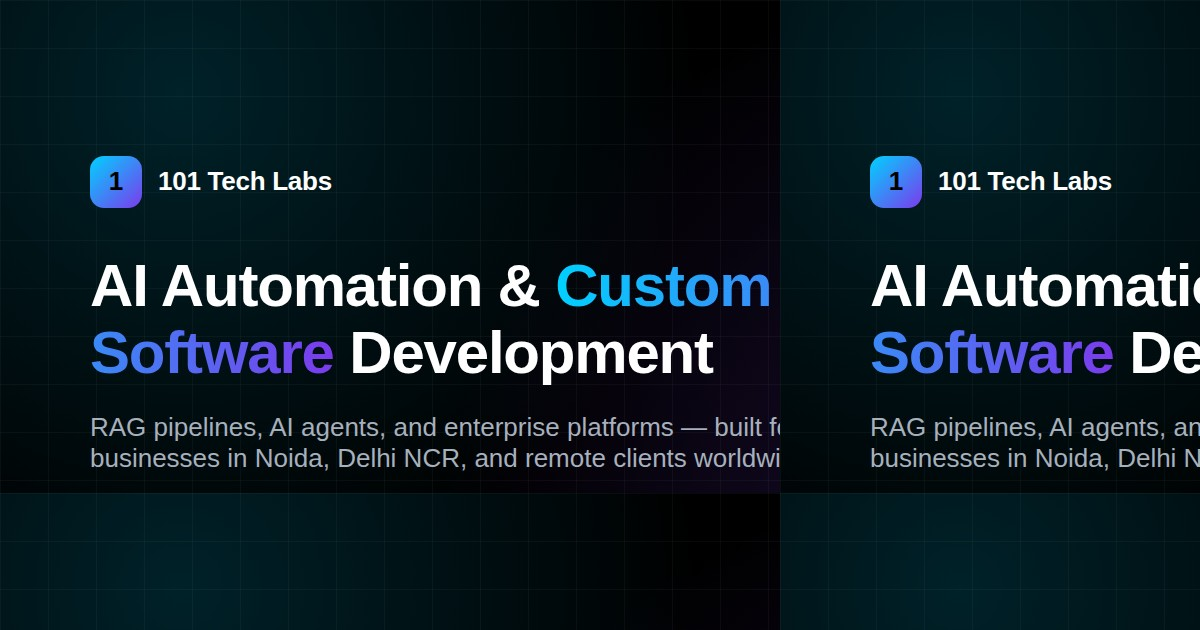
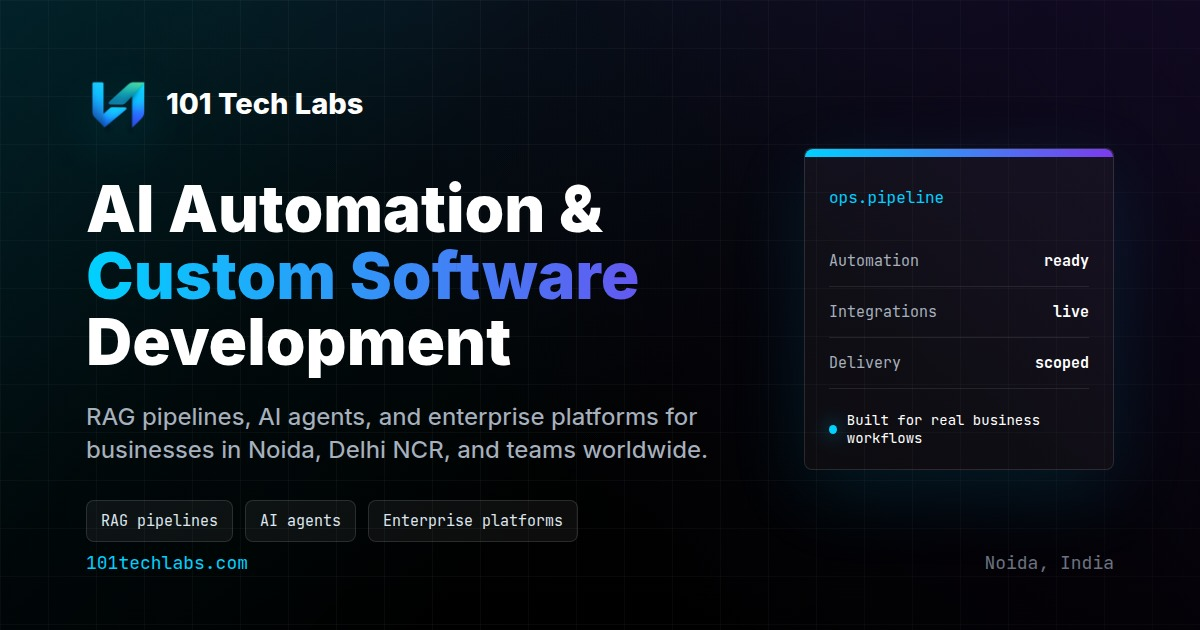
Fix Open Graph image card

diff --git a/scripts/og-card.html b/scripts/og-card.html
@@ -1,23 +1,40 @@
 <!doctype html>
-<html>
+<html lang="en">
 <head>
 <meta charset="utf-8" />
 <style>
+  @font-face {
+    font-family: "Inter";
+    font-style: normal;
+    font-weight: 100 900;
+    font-display: swap;
+    src: url("../public/fonts/inter-latin-variable.woff2") format("woff2");
+  }
+  @font-face {
+    font-family: "JetBrains Mono";
+    font-style: normal;
+    font-weight: 100 900;
+    font-display: swap;
+    src: url("../public/fonts/jetbrains-mono-latin-variable.woff2") format("woff2");
+  }
   * { margin: 0; padding: 0; box-sizing: border-box; }
+  html,
   body {
     width: 1200px;
     height: 630px;
+    overflow: hidden;
+  }
+  body {
     background: #000000;
     background-image:
-      radial-gradient(circle at 15% 15%, rgba(0, 209, 255, 0.16), transparent 45%),
-      radial-gradient(circle at 85% 85%, rgba(124, 58, 237, 0.20), transparent 50%);
-    font-family: -apple-system, "Inter", "Helvetica Neue", Arial, sans-serif;
+      linear-gradient(135deg, rgba(0, 209, 255, 0.18) 0%, rgba(0, 209, 255, 0.04) 31%, transparent 58%),
+      linear-gradient(225deg, rgba(124, 58, 237, 0.22) 0%, rgba(124, 58, 237, 0.05) 35%, transparent 62%),
+      linear-gradient(180deg, #020506 0%, #000000 100%);
+    font-family: "Inter", -apple-system, BlinkMacSystemFont, "Segoe UI", sans-serif;
     display: flex;
     flex-direction: column;
-    justify-content: center;
-    padding: 90px;
+    padding: 72px 86px 56px;
     position: relative;
-    overflow: hidden;
   }
   .grid-overlay {
     position: absolute;
@@ -27,41 +44,44 @@
       linear-gradient(90deg, rgba(255,255,255,0.035) 1px, transparent 1px);
     background-size: 48px 48px;
   }
+  .grid-overlay::after {
+    content: "";
+    position: absolute;
+    inset: 0;
+    background: linear-gradient(90deg, rgba(0, 0, 0, 0.2), transparent 34%, rgba(0, 0, 0, 0.42));
+  }
   .brand {
     display: flex;
     align-items: center;
-    gap: 16px;
-    margin-bottom: 44px;
+    gap: 18px;
+    margin-bottom: 42px;
     position: relative;
-    z-index: 1;
+    z-index: 2;
   }
   .logo-mark {
-    width: 52px;
-    height: 52px;
-    border-radius: 14px;
-    background: linear-gradient(135deg, #00D1FF, #7C3AED);
-    display: flex;
-    align-items: center;
-    justify-content: center;
-    font-weight: 800;
-    font-size: 26px;
-    color: #000;
+    width: 62px;
+    height: 62px;
+    object-fit: contain;
+    filter: drop-shadow(0 18px 26px rgba(0, 209, 255, 0.16));
   }
   .brand-name {
-    font-size: 26px;
-    font-weight: 700;
-    color: #ffffff;
-    letter-spacing: -0.01em;
-  }
-  h1 {
-    font-size: 60px;
+    font-size: 29px;
     font-weight: 800;
     color: #ffffff;
-    line-height: 1.12;
-    letter-spacing: -0.02em;
-    max-width: 920px;
+    letter-spacing: 0;
+  }
+  h1 {
+    font-size: 64px;
+    font-weight: 850;
+    color: #ffffff;
+    line-height: 1.04;
+    letter-spacing: 0;
+    max-width: 690px;
     position: relative;
-    z-index: 1;
+    z-index: 2;
+  }
+  h1 > span {
+    display: block;
   }
   h1 .accent {
     background: linear-gradient(90deg, #00D1FF, #7C3AED);
@@ -70,26 +90,101 @@
     color: transparent;
   }
   p.tagline {
-    margin-top: 26px;
-    font-size: 26px;
+    margin-top: 24px;
+    font-size: 24px;
     color: #A7B0BD;
-    max-width: 820px;
-    font-weight: 400;
+    line-height: 1.38;
+    max-width: 655px;
+    font-weight: 450;
     position: relative;
-    z-index: 1;
+    z-index: 2;
+  }
+  .chips {
+    display: flex;
+    gap: 12px;
+    margin-top: 34px;
+    position: relative;
+    z-index: 2;
+  }
+  .chips span {
+    border: 1px solid rgba(255, 255, 255, 0.12);
+    border-radius: 8px;
+    color: #DDE5EF;
+    background: rgba(255, 255, 255, 0.05);
+    padding: 10px 14px;
+    font-family: "JetBrains Mono", ui-monospace, monospace;
+    font-size: 15px;
+  }
+  .system-card {
+    position: absolute;
+    right: 86px;
+    top: 148px;
+    width: 310px;
+    height: 322px;
+    border-radius: 8px;
+    border: 1px solid rgba(255, 255, 255, 0.12);
+    background: rgba(255, 255, 255, 0.045);
+    box-shadow: 0 24px 80px rgba(0, 209, 255, 0.12);
+    padding: 24px;
+    font-family: "JetBrains Mono", ui-monospace, monospace;
+    z-index: 2;
+  }
+  .system-card::before {
+    content: "";
+    position: absolute;
+    top: 0;
+    left: 0;
+    right: 0;
+    height: 8px;
+    border-radius: 8px 8px 0 0;
+    background: linear-gradient(90deg, #00D1FF, #7C3AED);
+  }
+  .system-title {
+    color: #00D1FF;
+    font-size: 16px;
+    margin-top: 14px;
+    margin-bottom: 28px;
+  }
+  .system-row {
+    display: flex;
+    justify-content: space-between;
+    gap: 18px;
+    border-bottom: 1px solid rgba(255, 255, 255, 0.09);
+    padding: 15px 0;
+    font-size: 15px;
+    color: #A7B0BD;
+  }
+  .system-row strong {
+    color: #ffffff;
+    font-weight: 700;
+  }
+  .system-status {
+    margin-top: 22px;
+    display: flex;
+    align-items: center;
+    gap: 10px;
+    color: #ffffff;
+    font-size: 14px;
+  }
+  .status-dot {
+    width: 9px;
+    height: 9px;
+    border-radius: 50%;
+    background: #00D1FF;
+    box-shadow: 0 0 20px rgba(0, 209, 255, 0.85);
   }
   .footer-row {
     position: absolute;
     bottom: 56px;
-    left: 90px;
-    right: 90px;
+    left: 86px;
+    right: 86px;
     display: flex;
     justify-content: space-between;
     align-items: center;
-    font-size: 20px;
+    font-size: 18px;
     color: #6B7280;
     font-family: "JetBrains Mono", monospace;
-    z-index: 1;
+    z-index: 2;
   }
   .footer-row .domain { color: #00D1FF; }
 </style>
@@ -97,11 +192,27 @@
 <body>
   <div class="grid-overlay"></div>
   <div class="brand">
-    <div class="logo-mark">1</div>
+    <img class="logo-mark" src="../public/logo-512.png" alt="" />
     <div class="brand-name">101 Tech Labs</div>
   </div>
-  <h1>AI Automation &amp; <span class="accent">Custom Software</span> Development</h1>
-  <p class="tagline">RAG pipelines, AI agents, and enterprise platforms — built for businesses in Noida, Delhi NCR, and remote clients worldwide.</p>
+  <h1>
+    <span>AI Automation &amp;</span>
+    <span class="accent">Custom Software</span>
+    <span>Development</span>
+  </h1>
+  <p class="tagline">RAG pipelines, AI agents, and enterprise platforms for businesses in Noida, Delhi NCR, and teams worldwide.</p>
+  <div class="chips">
+    <span>RAG pipelines</span>
+    <span>AI agents</span>
+    <span>Enterprise platforms</span>
+  </div>
+  <div class="system-card">
+    <div class="system-title">ops.pipeline</div>
+    <div class="system-row"><span>Automation</span><strong>ready</strong></div>
+    <div class="system-row"><span>Integrations</span><strong>live</strong></div>
+    <div class="system-row"><span>Delivery</span><strong>scoped</strong></div>
+    <div class="system-status"><span class="status-dot"></span><span>Built for real business workflows</span></div>
+  </div>
   <div class="footer-row">
     <span class="domain">101techlabs.com</span>
     <span>Noida, India</span>
